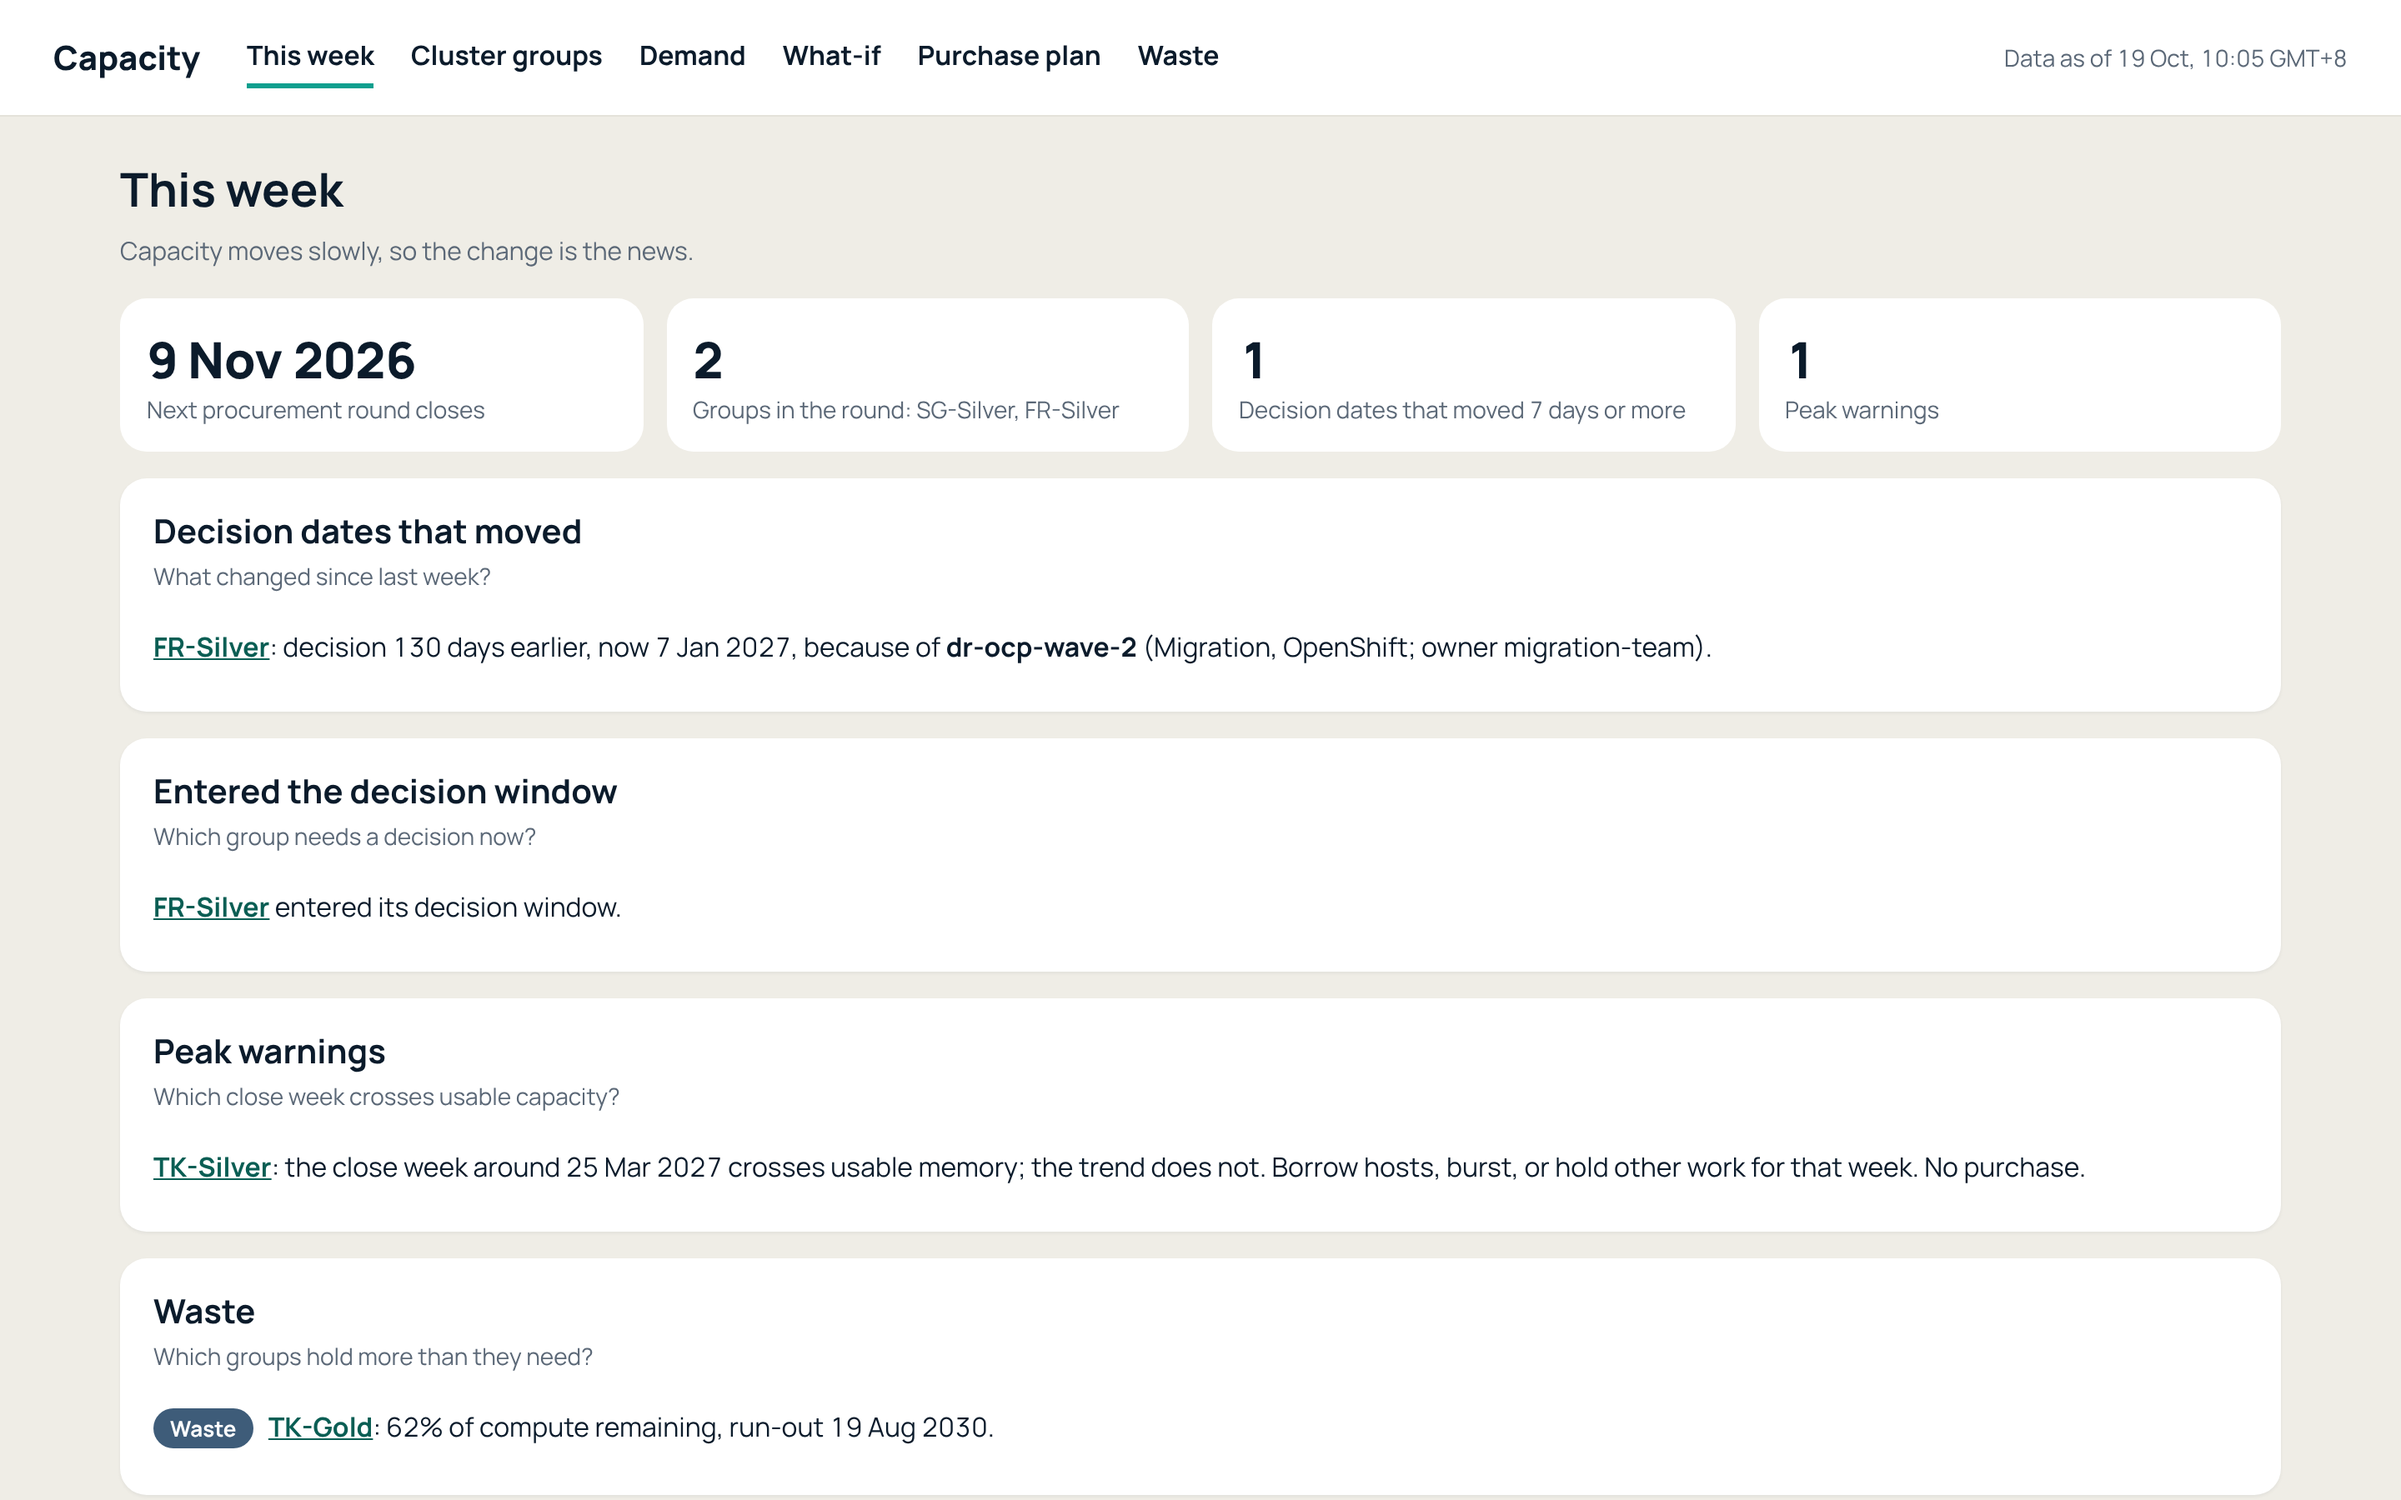
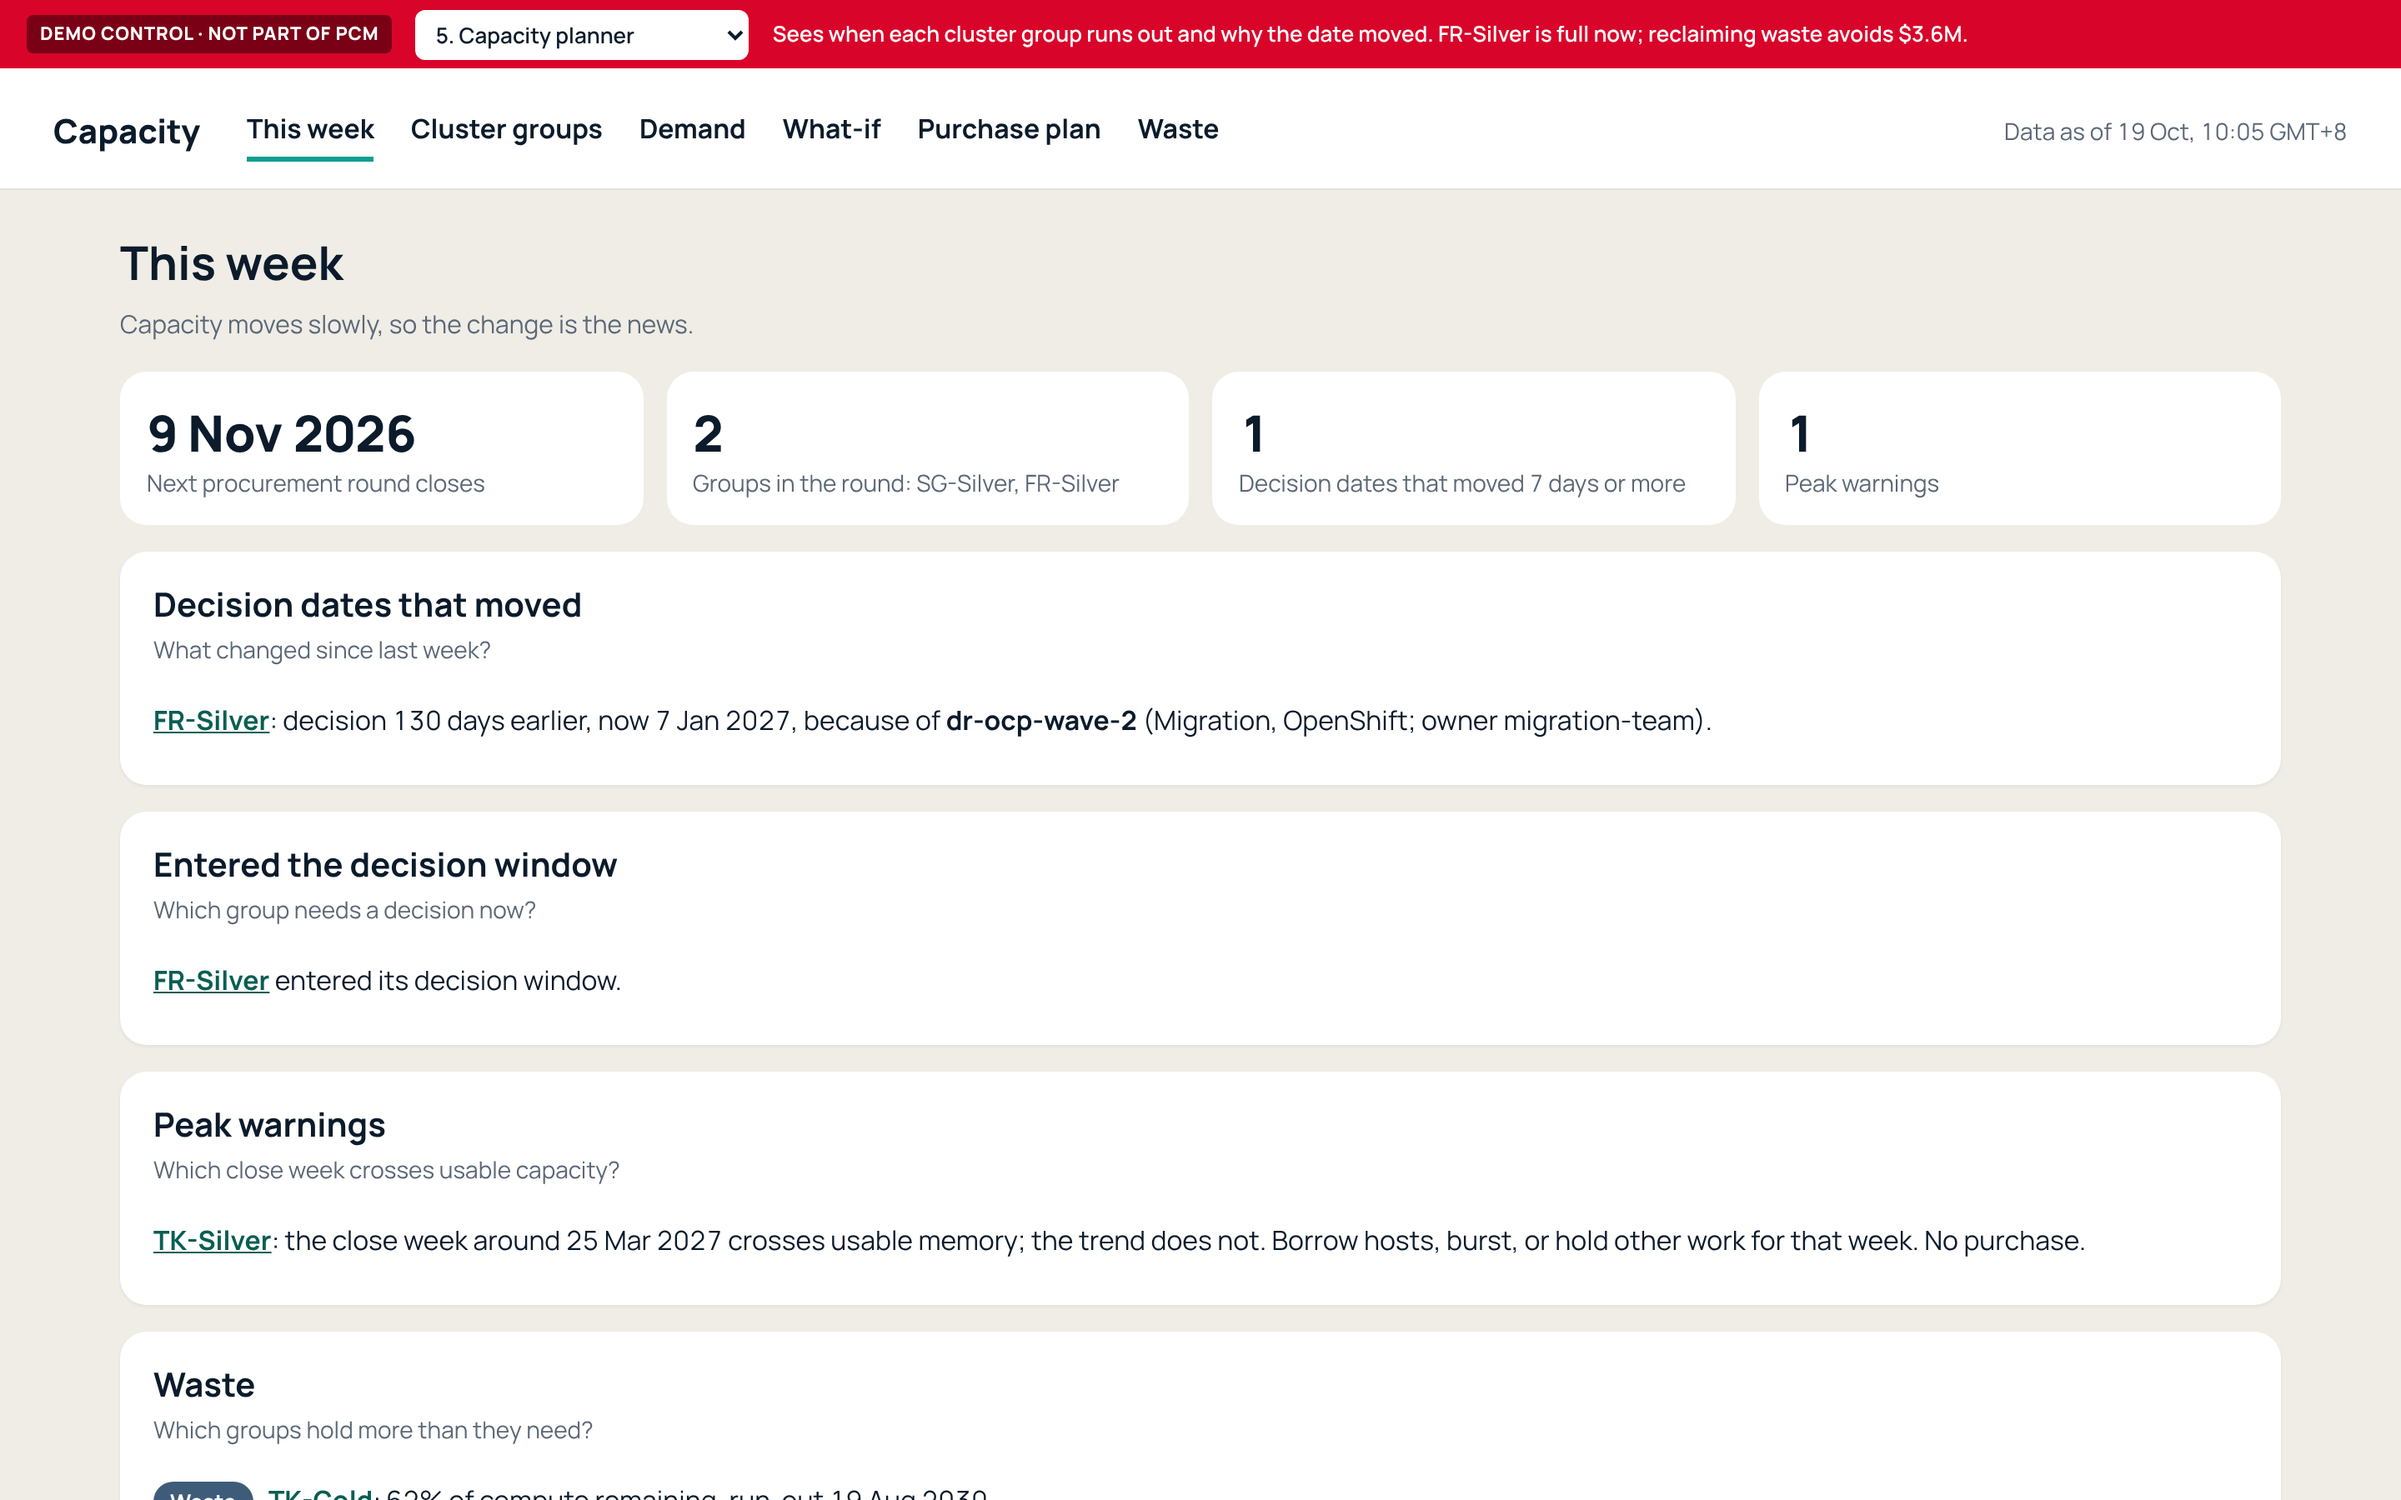
Demo switcher: on by default, bright red bar labelled as not part of PCM
Claude-Session: https://claude.ai/code/session_01JZFwAnN4ZkqgGShqgriZCk

diff --git a/build/web/demo/switcher.js b/build/web/demo/switcher.js
@@ -1,4 +1,4 @@
-// Demo switcher. Thin bar at the top of every page, only when the server runs with PCM_DEMO_SWITCHER=1.
+// Demo switcher. Thin bar at the top of every page, on by default; PCM_DEMO_SWITCHER=0 turns it off.
 // Demo scaffolding, not part of PCM: the real product is one URL per person. The six URLs stay as they are.
 'use strict';
 (() => {
@@ -27,10 +27,10 @@
   const css = document.createElement('style');
   css.textContent = `
     #demo-switcher{position:fixed;top:0;left:0;right:0;height:44px;z-index:2147483647;box-sizing:border-box;display:flex;align-items:center;gap:14px;padding:0 16px;
-      background:#0B1B2B;color:#fff;font:500 13px/1.3 Manrope,system-ui,sans-serif;border-bottom:2px solid #5EEAD4}
-    #demo-switcher b{font-weight:800;letter-spacing:.04em;text-transform:uppercase;font-size:11px;color:#5EEAD4;white-space:nowrap}
+      background:#D90429;color:#fff;font:500 13px/1.3 Manrope,system-ui,sans-serif;border-bottom:3px solid #fff}
+    #demo-switcher b{font-weight:800;letter-spacing:.04em;text-transform:uppercase;font-size:11px;color:#fff;background:#7A0016;padding:4px 8px;border-radius:4px;white-space:nowrap}
     #demo-switcher select{font:600 13px Manrope,system-ui,sans-serif;color:#0B1B2B;background:#fff;border:0;border-radius:6px;padding:5px 8px;min-width:200px}
-    #demo-switcher span{flex:1;min-width:0;overflow:hidden;display:-webkit-box;-webkit-line-clamp:2;-webkit-box-orient:vertical;opacity:.9}
+    #demo-switcher span{flex:1;min-width:0;overflow:hidden;display:-webkit-box;-webkit-line-clamp:2;-webkit-box-orient:vertical;font-weight:600}
     html{padding-top:44px}
     body.wall{height:calc(100vh - 44px)}
     @media (max-width:700px){#demo-switcher{height:auto;min-height:44px;flex-wrap:wrap;padding:6px 12px}html{padding-top:84px}}`;
@@ -40,7 +40,7 @@
   bar.id = 'demo-switcher';
   bar.setAttribute('role', 'region');
   bar.setAttribute('aria-label', 'Demo role switcher');
-  const label = document.createElement('b'); label.textContent = 'Demo role';
+  const label = document.createElement('b'); label.textContent = 'Demo control · not part of PCM';
   const sel = document.createElement('select'); sel.setAttribute('aria-label', 'Switch role');
   ROLES.forEach((r, i) => { const o = document.createElement('option'); o.value = String(i); o.textContent = r.name; if (i === cur) o.selected = true; sel.appendChild(o); });
   const about = document.createElement('span'); about.textContent = ROLES[cur].about;

diff --git a/build/pcm_proto/server.py b/build/pcm_proto/server.py
@@ -177,7 +177,7 @@ class Handler(BaseHTTPRequestHandler):
             return self.send(404, b"not found", "text/plain")
         ctype = mimetypes.guess_type(f.name)[0] or "application/octet-stream"
         body = f.read_bytes()
-        if f.suffix == ".html" and os.environ.get("PCM_DEMO_SWITCHER") == "1":
+        if f.suffix == ".html" and os.environ.get("PCM_DEMO_SWITCHER") != "0":
             # Demo only: a thin role switcher on every page. The generated pages stay untouched.
             body = body.replace(b"</body>", b'<script src="/demo/switcher.js"></script></body>', 1)
         return self.send(200, body, ctype)

diff --git a/demo/README.md b/demo/README.md
@@ -15,10 +15,10 @@ node demo/rehearse.mjs
 1. Start PCM on a database of its own, so the demo always starts clean.
 
 ```bash
-PCM_DEMO_SWITCHER=1 PCM_DB=var/demo.sqlite python3 -m build.pcm_proto.server --port 8080
+PCM_DB=var/demo.sqlite python3 -m build.pcm_proto.server --port 8080
 ```
 
-   `PCM_DEMO_SWITCHER=1` adds a thin role switcher at the top of every page: a drop-down in demo order, with one or two lines on what the role does. It only jumps between the six URLs below and keeps the clock. It is demo scaffolding; production is one URL per person. Leave it off for the page tests (the wall must have no interactive element).
+   The server adds a thin red role switcher at the top of every page, labelled "Demo control · not part of PCM": a drop-down in demo order, with one or two lines on what the role does. It only jumps between the six URLs below and keeps the clock. It is demo scaffolding; production is one URL per person. It is on by default. Set `PCM_DEMO_SWITCHER=0` to turn it off; the page tests do, because the wall itself must have no interactive element (D-041). The switcher sits above the wall, outside it.
 
 2. Reset the demo state: everything people did in the last run is removed.
 
